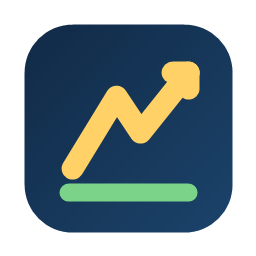
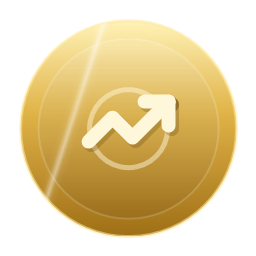
Add MIT license and update packaging/assets
Add MIT LICENSE and switch package license to MIT. Update README packaging instructions to use npm scripts and vsce login/publish. Add new activity icon (media/level-up-activity.svg) and update SVG artwork (media/level-up.svg) and PNG asset. Update package.json with repository/homepage/bugs metadata, change extension icons to the activity SVG, and simplify vsce scripts (remove special flags and use standard publish/package commands).

diff --git a/README.md b/README.md
@@ -68,14 +68,21 @@ Your extension is a Node.js process that VS Code loads when one of its activatio
 
 Once activated, the extension can subscribe to editor events like file changes and saves. Level Up listens to those events, updates the player state in memory, persists it with VS Code storage, and refreshes the UI.
 
-## Packaging Later
+## Packaging
 
-If you want to turn this into an installable `.vsix` later, first change the `publisher` field in `package.json` to your own publisher name. Then package it with a tool like `vsce`.
-
-Example:
+The repository is set up to package directly with the included release scripts.
 
 ```bash
-npx @vscode/vsce package
+npm run package
+```
+
+That generates a `.vsix` file you can test locally or publish with `vsce`.
+
+For Marketplace publishing, log in once with your publisher and then use one of the release scripts:
+
+```bash
+npx @vscode/vsce login Pocky
+npm run publish:patch
 ```
 
 ## Next Good Improvements
